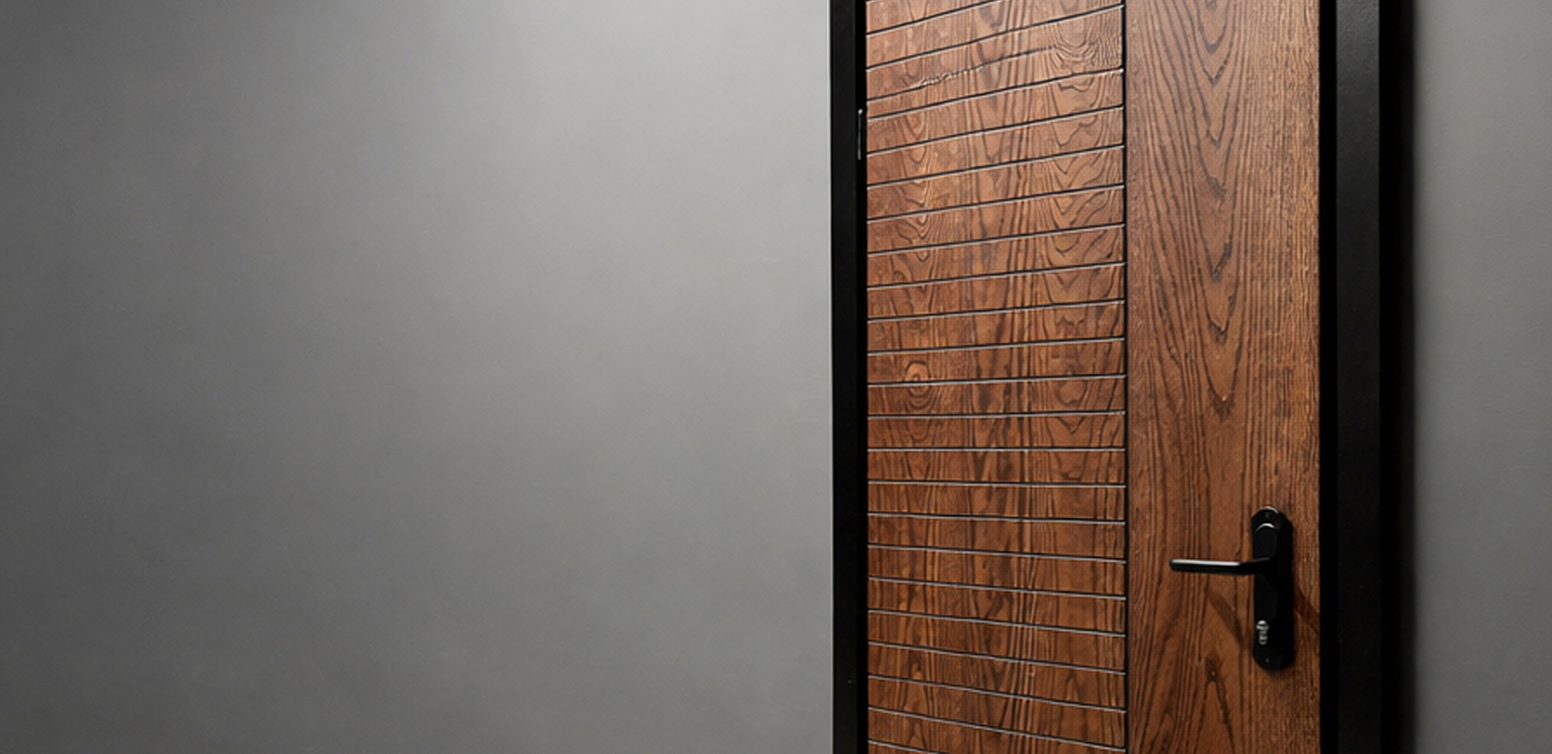
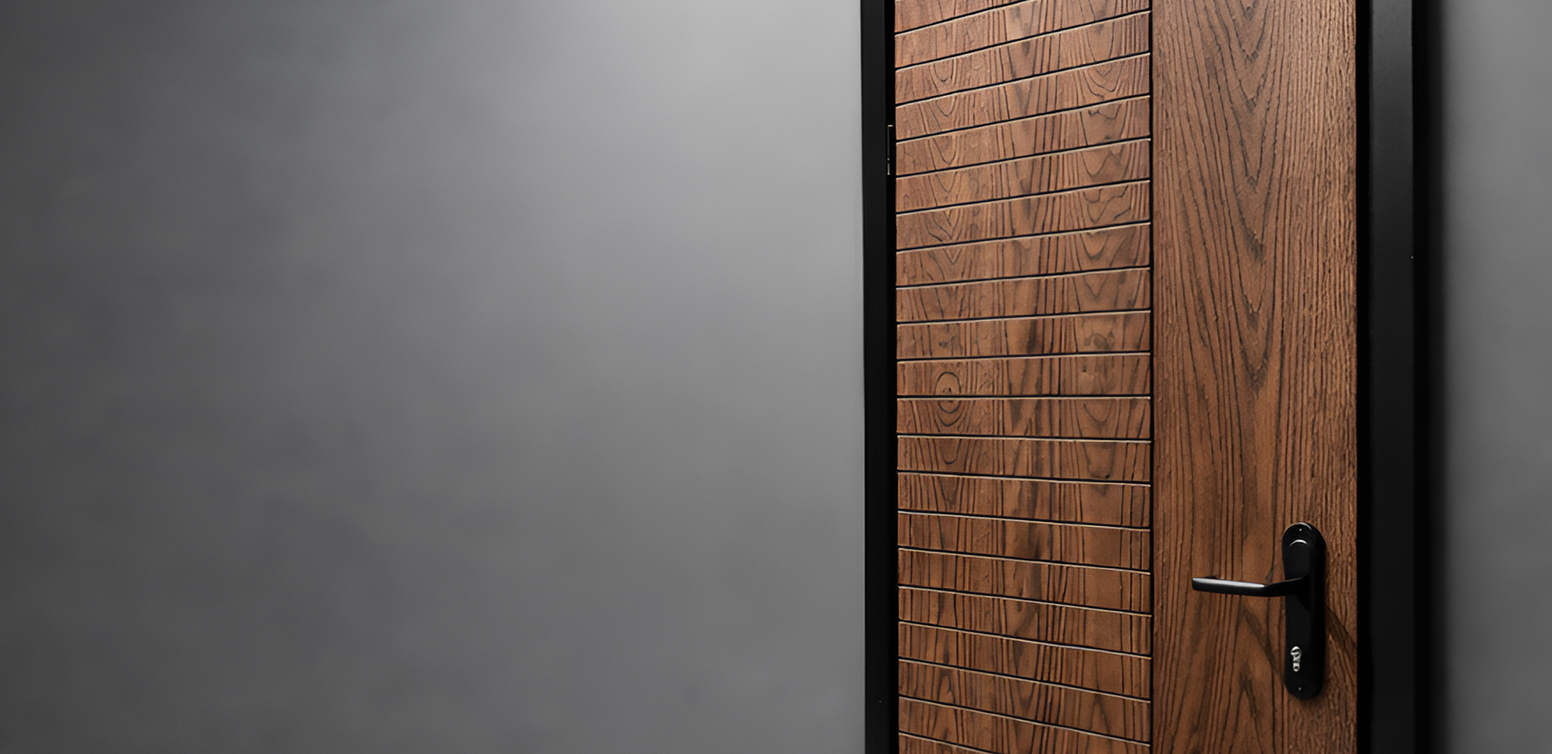
update style hero

diff --git a/components/hero/Hero.module.css b/components/hero/Hero.module.css
@@ -1,81 +1,110 @@
 .hero {
+    position: relative;
     width: 100%;
-    min-height: 700px;
-    padding-bottom: 64px;
     background-color: #181818;
-    background-image: url("/images/image-hero.jpg");
-    background-repeat: no-repeat;
-    background-position: center top;
-    background-size: 100% 700px;
+    overflow: hidden;
+    padding-bottom: 74px;
 }
 
 .inner {
+    position: relative;
+    width: 100%;
+    max-width: 1440px;
+    height: 700px;
     min-height: 700px;
-    padding-top: 236px;
-    padding-bottom: 145px;
-    padding-left: 46px;
+    margin: 0 auto;
+    overflow: visible;
+    z-index: 1;
 }
+
+.imageLayer {
+    position: absolute;
+    top: 0;
+    bottom: 0;
+    left: 50%;
+    width: 100vw;
+    transform: translateX(-50%);
+    z-index: 0;
+    pointer-events: none;
+}
+
+.backgroundImage {
+    object-fit: cover;
+    object-position: center center;
+}
+
 .content {
-    width: 646px;
+    position: absolute;
+    top: 171px;
+    left: 0;
+    z-index: 2;
+    width: 752px;
+    height: 359px;
+    box-sizing: border-box;
     display: flex;
     flex-direction: column;
-    align-items: flex-start;
+    justify-content: flex-start;
+    padding: 54px 36px 40px 48px;
+    background: transparent;
+    isolation: isolate;
+}
+
+.content::before {
+    content: "";
+    position: absolute;
+    top: 0;
+    right: 0;
+    bottom: 0;
+    left: min(0px, calc((100vw - 1440px) / -2));
+    border-radius: 0 20px 20px 0;
+    background: linear-gradient(90deg,
+            rgba(0, 0, 0, 0.48) 0%,
+            rgba(0, 0, 0, 0) 100%);
+    z-index: -1;
 }
 
 .title {
-    max-width: 646px;
-    margin-bottom: 8px;
-    /* font-family: var(--second-family), serif; */
+    max-width: 668px;
+    margin: 0 0 16px;
     color: #ffffff;
     font-family: var(--second-family);
-        font-weight: 600;
+    font-weight: 600;
         font-size: 48px;
-        line-height: 117%;
+        line-height: 108%;
         letter-spacing: 0.01em;
 }
 
 .text {
-    /* max-width: 550px; */
-    margin-bottom: 31px;
-    padding-left: 48px;
-    line-height: 1.2;
+    margin: 0 0 28px 48px;
     color: #ffffff;
     font-family: var(--font-family);
-        font-weight: 400;
-        font-size: 28px;
-    
+    font-weight: 400;
+    font-size: 28px;
+    line-height: 1.15;
 }
 
 .actions {
-    display: flex;
-    flex-direction: column;
-    gap: 16px;
-    align-items: flex-start;
-    padding-left: 149px;
+    margin-left: 150px;
 }
 
-.primaryButton,
-.secondaryButton {
-    min-width: 348px;
-    height: 70px;
+.primaryButton {
+    width: 303px;
+    height: 64px;
+    padding: 20px 30px;
+    border: none;
     border-radius: 16px;
-        padding: 20px 30px;
     display: inline-flex;
     align-items: center;
     justify-content: center;
     text-decoration: none;
-    font-weight: 400;
+    background-color: #0E6C33;
+    color: #ffffff;
     font-family: var(--font-family);
-        font-size: 24px;
-        line-height: 125%;
-        letter-spacing: 0.01em;
-        color: #fff;
-}
-
-.primaryButton {
-    color: #fff;
-    background-color: #107c41;
+    font-weight: 500;
     transition: background-color 0.2s ease;
+        font-size: 20px;
+        line-height: 120%;
+        letter-spacing: 0.01em;
 }
 
 .primaryButton:hover,
@@ -84,110 +113,160 @@
 }
 
 .primaryButton:active {
-    background-color: #0B5328;
+    background-color: #0b5328;
 }
 
-.secondaryButton {
-    color: #fff;
-    background-color: transparent;
-    border: 3px solid #0E6C33;
-    transition: background-color 0.2s ease, border-color 0.2s ease;
-}
-
-.secondaryButton:hover,
-.secondaryButton:focus-visible {
-    background-color: #13833f;
-    border-color: #13833f;
-}
-
-.secondaryButton:active {
-    background-color: #0B5328;
-    border-color: #0B5328;
-}
-
-@media (max-width: 1024px) {
-
-    .hero,
+@media (max-width: 1200px) {
     .inner {
-        min-height: 620px;
+        height: 640px;
+        min-height: 640px;
     }
 
-    .inner {
-        padding-top: 180px;
-        padding-bottom: 90px;
-        padding-left: 24px;
+    .backgroundImage {
+        object-position: 62% center;
     }
 
     .content {
-        width: 560px;
+        top: 154px;
+        width: 680px;
+        height: 325px;
+        padding: 46px 30px 34px 42px;
     }
 
     .title {
-        font-size: 44px;
+        max-width: 610px;
+        font-size: 56px;
     }
 
     .text {
-        max-width: 500px;
-        padding-left: 24px;
-        font-size: 20px;
+        margin: 0 0 30px 48px;
+        font-size: 24px;
     }
 
     .actions {
-        padding-left: 80px;
+        margin-left: 170px;
+    }
+
+    .primaryButton {
+        width: 320px;
+        height: 68px;
+        font-size: 17px;
+        border-radius: 16px;
+    }
+}
+
+@media (max-width: 992px) {
+    .inner {
+        height: 580px;
+        min-height: 580px;
+    }
+
+    .backgroundImage {
+        object-position: 68% center;
+    }
+
+    .content {
+        top: 145px;
+        width: 600px;
+        height: 290px;
+        padding: 38px 26px 30px 34px;
+    }
+
+    .title {
+        max-width: 540px;
+        font-size: 46px;
+    }
+
+    .text {
+        margin: 0 0 26px 30px;
+        font-size: 22px;
+    }
+
+    .actions {
+        margin-left: 126px;
+    }
+
+    .primaryButton {
+        width: 290px;
+        height: 60px;
+        font-size: 16px;
+        border-radius: 14px;
     }
 }
 
 @media (max-width: 768px) {
-
-    .hero,
     .inner {
+        height: 540px;
         min-height: 540px;
     }
 
-    .inner {
-        padding: 140px 16px 48px;
+    .backgroundImage {
+        object-position: 74% center;
     }
 
     .content {
-        width: 100%;
+        top: 138px;
+        width: calc(100% - 16px);
+        height: auto;
+        min-height: 250px;
+        padding: 28px 20px 28px 24px;
+        border-radius: 0 18px 18px 0;
     }
 
     .title {
         max-width: 100%;
+        margin: 0 0 16px;
         font-size: 36px;
+        line-height: 1.05;
     }
 
     .text {
-        max-width: 100%;
-        padding-left: 0;
+        margin: 0 0 24px;
         font-size: 18px;
+        line-height: 1.2;
     }
 
     .actions {
-        width: 100%;
-        padding-left: 0;
+        margin-left: 0;
     }
 
-    .primaryButton,
-    .secondaryButton {
-        min-width: 250px;
-        height: 50px;
-        font-size: 16px;
+    .primaryButton {
+        width: 240px;
+        height: 52px;
+        padding: 0 18px;
+        font-size: 15px;
+        border-radius: 14px;
     }
 }
 
 @media (max-width: 480px) {
+    .inner {
+        height: 500px;
+        min-height: 500px;
+    }
+
+    .backgroundImage {
+        object-position: 78% center;
+    }
+
+    .content {
+        top: 122px;
+        width: calc(100% - 8px);
+        min-height: 220px;
+        padding: 22px 16px 24px;
+    }
+
     .title {
         font-size: 30px;
     }
 
     .text {
+        margin-bottom: 20px;
         font-size: 16px;
     }
 
-    .primaryButton,
-    .secondaryButton {
+    .primaryButton {
         width: 100%;
-        min-width: 100%;
+        height: 50px;
     }
 }

diff --git a/components/hero/Hero.tsx b/components/hero/Hero.tsx
@@ -1,3 +1,4 @@
+import Image from "next/image";
 import Link from "next/link";
 import styles from "./Hero.module.css";
 
@@ -5,6 +6,17 @@ export default function Hero() {
   return (
     <section className={styles.hero}>
       <div className={styles.inner}>
+        <div className={styles.imageLayer} aria-hidden="true">
+          <Image
+            src="/images/image-hero.jpg"
+            alt=""
+            fill
+            priority
+            sizes="100vw"
+            className={styles.backgroundImage}
+          />
+        </div>
+
         <div className={styles.content}>
           <h1 className={styles.title}>Двері для вашого простору</h1>
 
@@ -17,10 +29,6 @@ export default function Hero() {
           <div className={styles.actions}>
             <Link href="/catalog" className={styles.primaryButton}>
               Обрати двері в каталозі
-            </Link>
-
-            <Link href="/contacts" className={styles.secondaryButton}>
-              Отримати консультацію
             </Link>
           </div>
         </div>
